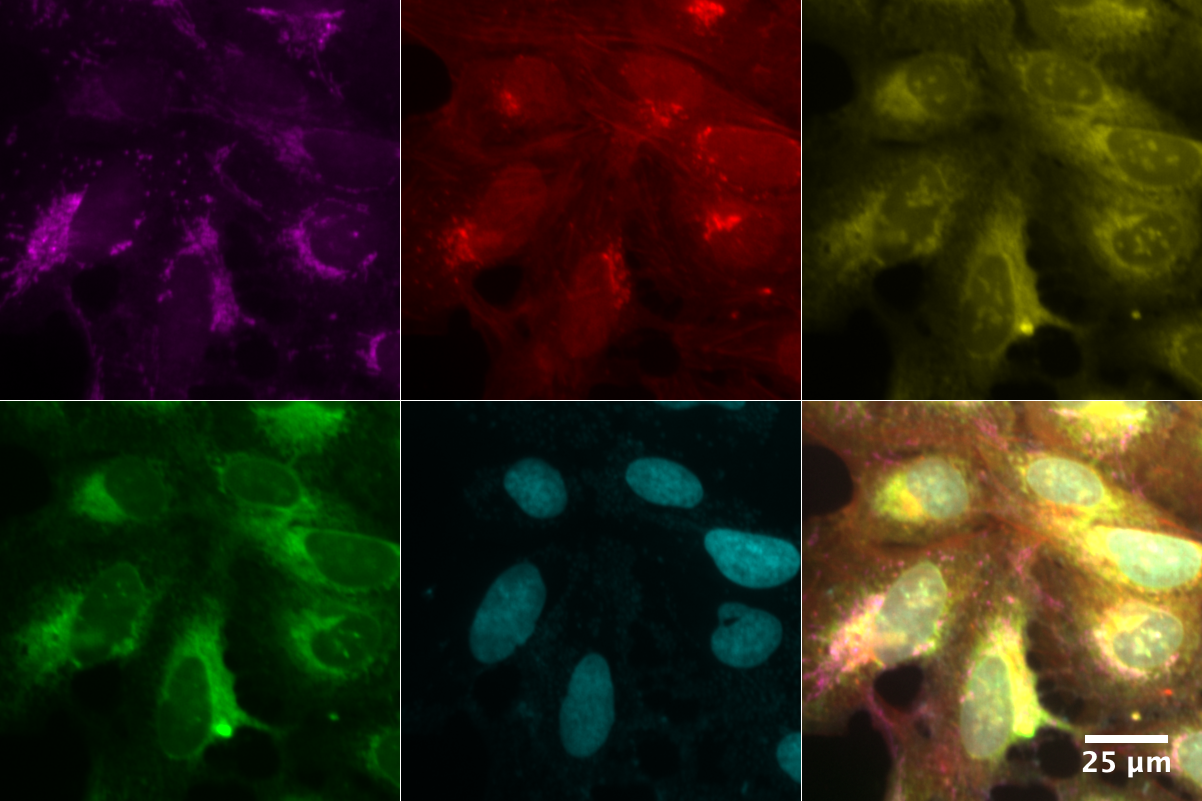
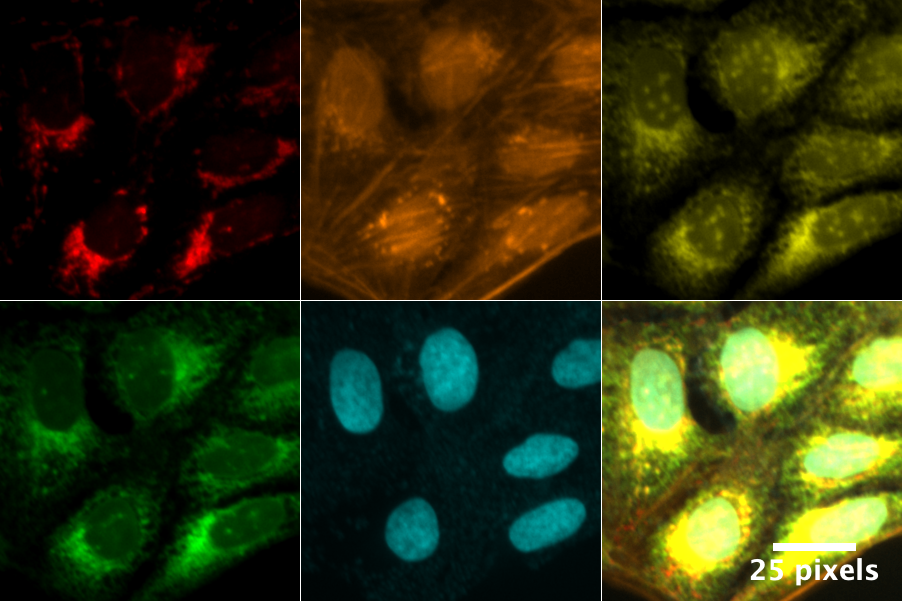
update color scheme, make grayscale montage too

diff --git a/notebooks/FijiNiceImageScript.py b/notebooks/FijiNiceImageScript.py
@@ -60,15 +60,15 @@ else:
     im=IJ.getImage()
     IJ.run("Duplicate...", "duplicate channels=1-5 title=Composite")
     im=IJ.getImage()
-    LUT_dict = {1:"Magenta",2:"Red", 3:"Yellow",4:"Green",5:"Cyan"}
+    LUT_dict = {1:"Red",2:"Orange Hot", 3:"Yellow",4:"Green",5:"Cyan"}
     for eachkey in LUT_dict.keys():
         im.setSlice(eachkey)
         IJ.run(LUT_dict[eachkey])
     IJ.setMinAndMax(minval, maxval)
     if bin == 2:
-        boxsize=200
+        boxsize=150
     else:
-        boxsize=400
+        boxsize=300
     IJ.makeRectangle(0, 0, boxsize, boxsize)
     myWait = WaitForUserDialog ("", "Drag the box to a single representative field, and adjust contrast if needed (but try not to). The script will crop it, apply a scale bar, and save it.")
     myWait.show()
@@ -83,18 +83,32 @@ else:
     else:
         #start of Magic Montage code - https://wsr.imagej.net/macros/toolsets/Magic%20Montage.txt
         b=im.bitDepth
+        WindowManager.setTempCurrentImage(WindowManager.getImage("Composite"))	
+        IJ.run("Duplicate...", "duplicate channels=1-5")
         IJ.newImage("tempmont", "RGB", boxsize, boxsize,6)
+        IJ.newImage("tempmont_gray", "RGB", boxsize, boxsize,6)
         for i in range(1,6):
             IJ.setPasteMode("copy")
             WindowManager.setTempCurrentImage(WindowManager.getImage("Composite"))	
-            IJ.run("Duplicate...", "duplicate channels="+str(i)+" title=temp"+str(i))
-            WindowManager.setTempCurrentImage(WindowManager.getImage("Composite-"+str(i)))
+            IJ.run("Duplicate...", "duplicate channels="+str(i)+" title=temp"+str(i*2))
+            WindowManager.setTempCurrentImage(WindowManager.getImage("Composite-"+str(i*2)))
             IJ.run("RGB Color")
             IJ.run("Copy")
             WindowManager.setTempCurrentImage(WindowManager.getImage("tempmont"))
             im2=IJ.getImage()
             im2.setSlice(i)
             IJ.run("Paste")
+            IJ.setPasteMode("copy")
+            WindowManager.setTempCurrentImage(WindowManager.getImage("Composite-1"))	
+            IJ.run("Duplicate...", "duplicate channels="+str(i)+" title=temp"+str((i*2)+1))
+            WindowManager.setTempCurrentImage(WindowManager.getImage("Composite-"+str((i*2)+1)))
+            IJ.run("Grays")
+            IJ.run("RGB Color")
+            IJ.run("Copy")
+            WindowManager.setTempCurrentImage(WindowManager.getImage("tempmont_gray"))
+            im2=IJ.getImage()
+            im2.setSlice(i)
+            IJ.run("Paste")      
         WindowManager.setTempCurrentImage(WindowManager.getImage("Composite"))
         IJ.run("RGB Color")
         IJ.run("Copy")
@@ -102,7 +116,6 @@ else:
         im2=IJ.getImage()
         im2.setSlice(6)
         IJ.run("Paste")
-        im2.setCalibration(calibration)
         IJ.run("Properties...", "channels=1 slices=6 frames=1 pixel_width="+pixel_size+" pixel_height="+pixel_size+" voxel_depth=1")
         IJ.run("Make Montage...", "columns=3 rows=2 scale=1 border=1")
         if bin ==2:
@@ -110,6 +123,20 @@ else:
         else:
             IJ.run("Scale Bar...", "width=25 height=8 font=28 color=White background=None location=[Lower Right] bold")
         IJ.saveAs("png",os.path.join(output_path,batch+'-'+plate+'_montage.png'))
+        WindowManager.setTempCurrentImage(WindowManager.getImage("Composite (RGB)"))
+        IJ.getImage()
+        IJ.run("Copy")
+        WindowManager.setTempCurrentImage(WindowManager.getImage("tempmont_gray"))
+        im2=IJ.getImage()
+        im2.setSlice(6)
+        IJ.run("Paste")
+        IJ.run("Properties...", "channels=1 slices=6 frames=1 pixel_width="+pixel_size+" pixel_height="+pixel_size+" voxel_depth=1")
+        IJ.run("Make Montage...", "columns=3 rows=2 scale=1 border=1")
+        if bin ==2:
+            IJ.run("Scale Bar...", "width=25 height=4 font=14 color=White background=None location=[Lower Right] bold")
+        else:
+            IJ.run("Scale Bar...", "width=25 height=8 font=28 color=White background=None location=[Lower Right] bold")
+        IJ.saveAs("png",os.path.join(output_path,batch+'-'+plate+'_montage_gray.png'))
         WindowManager.setTempCurrentImage(WindowManager.getImage("Composite (RGB)"))
         if bin ==2:
             IJ.run("Scale Bar...", "width=25 height=4 font=14 color=White background=None location=[Lower Right] bold")
